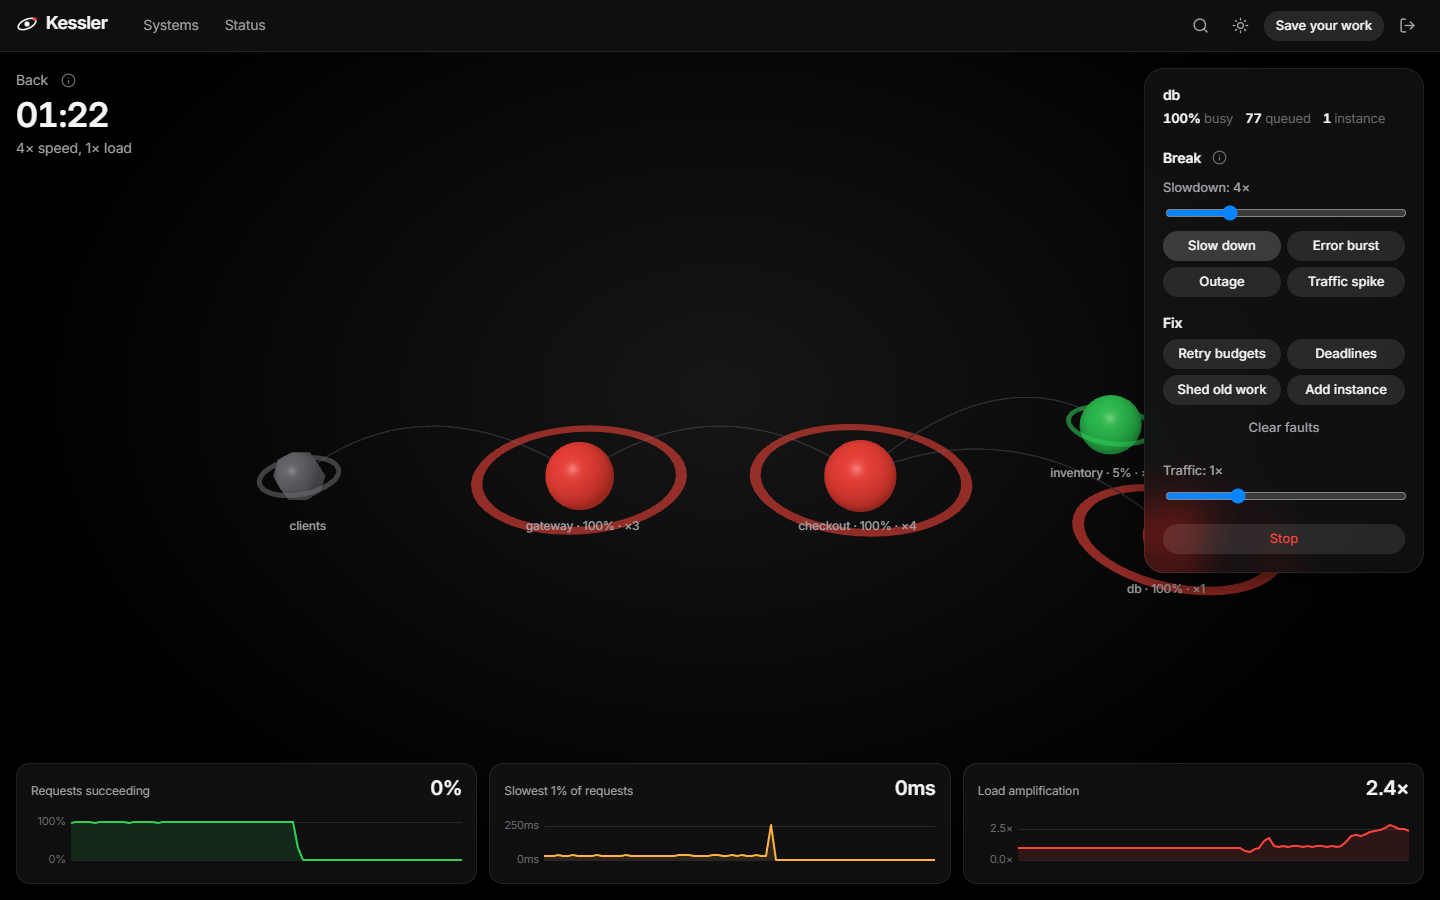
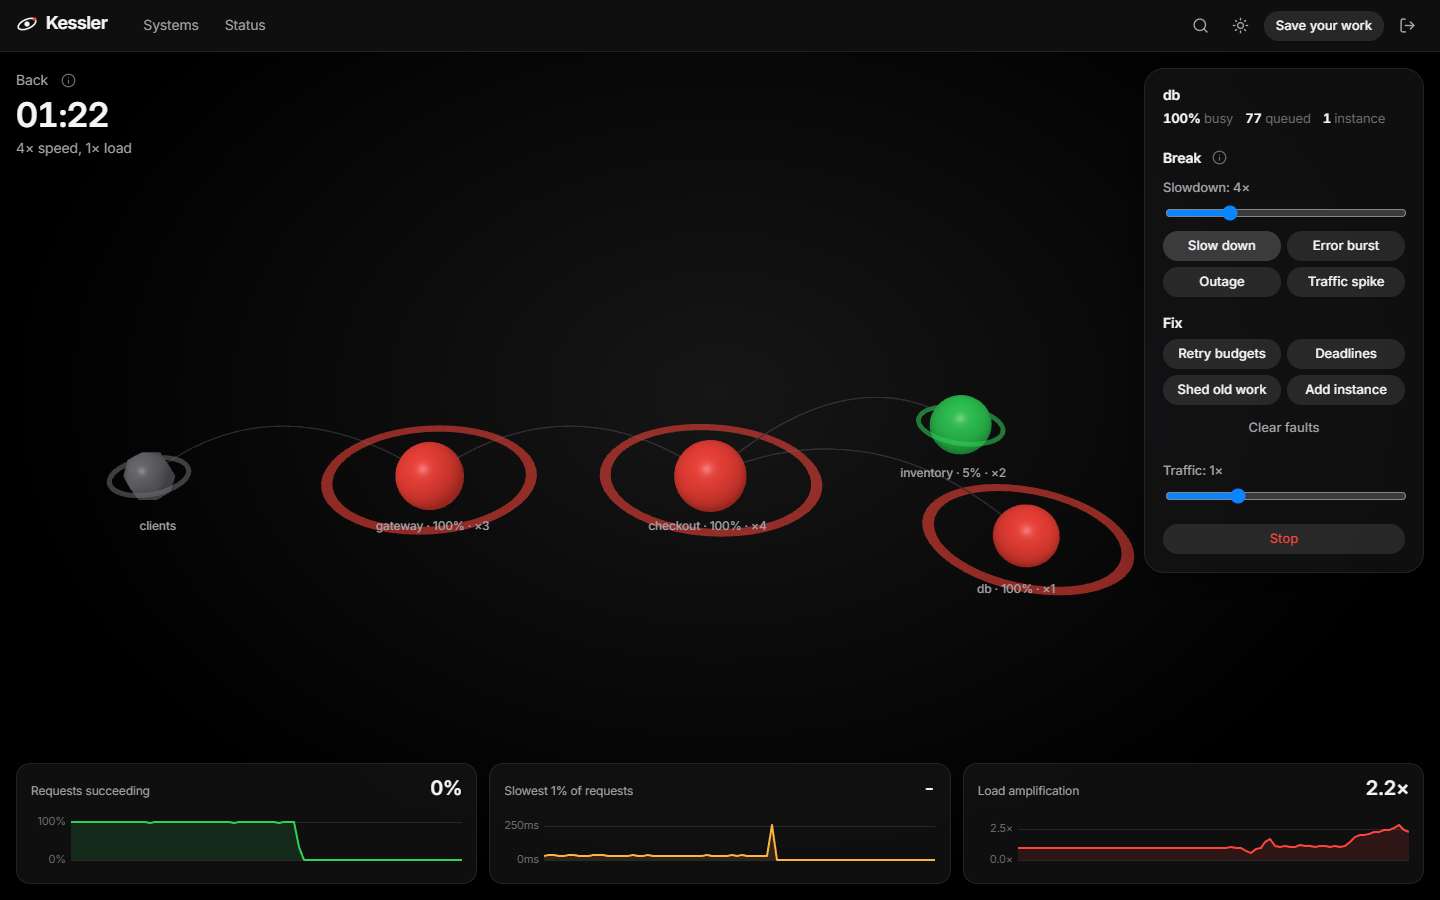
web: no latency figure when no request succeeds; fresh live screenshot

diff --git a/web/src/components/LiveCharts.tsx b/web/src/components/LiveCharts.tsx
@@ -78,7 +78,7 @@ export function LiveCharts({ data }: { data: SeriesBuffer }) {
   return (
     <div className="charts">
       <Chart label="Requests succeeding" value={last(data.ratio) !== undefined ? pct(last(data.ratio)!) : " - "} xs={data.t} ys={data.ratio} color="--stable" fmt={pct} yMax={1.05} />
-      <Chart label="Slowest 1% of requests" value={last(data.p99) !== undefined ? ms(last(data.p99)!) : " - "} xs={data.t} ys={data.p99} color="--slow" fmt={ms} />
+      <Chart label="Slowest 1% of requests" value={last(data.p99) !== undefined && last(data.ratio) !== 0 ? ms(last(data.p99)!) : " - "} xs={data.t} ys={data.p99} color="--slow" fmt={ms} />
       <Chart label="Load amplification" value={last(data.amp) !== undefined ? mult(last(data.amp)!) : " - "} xs={data.t} ys={data.amp} color="--meta" fmt={mult} />
     </div>
   );
